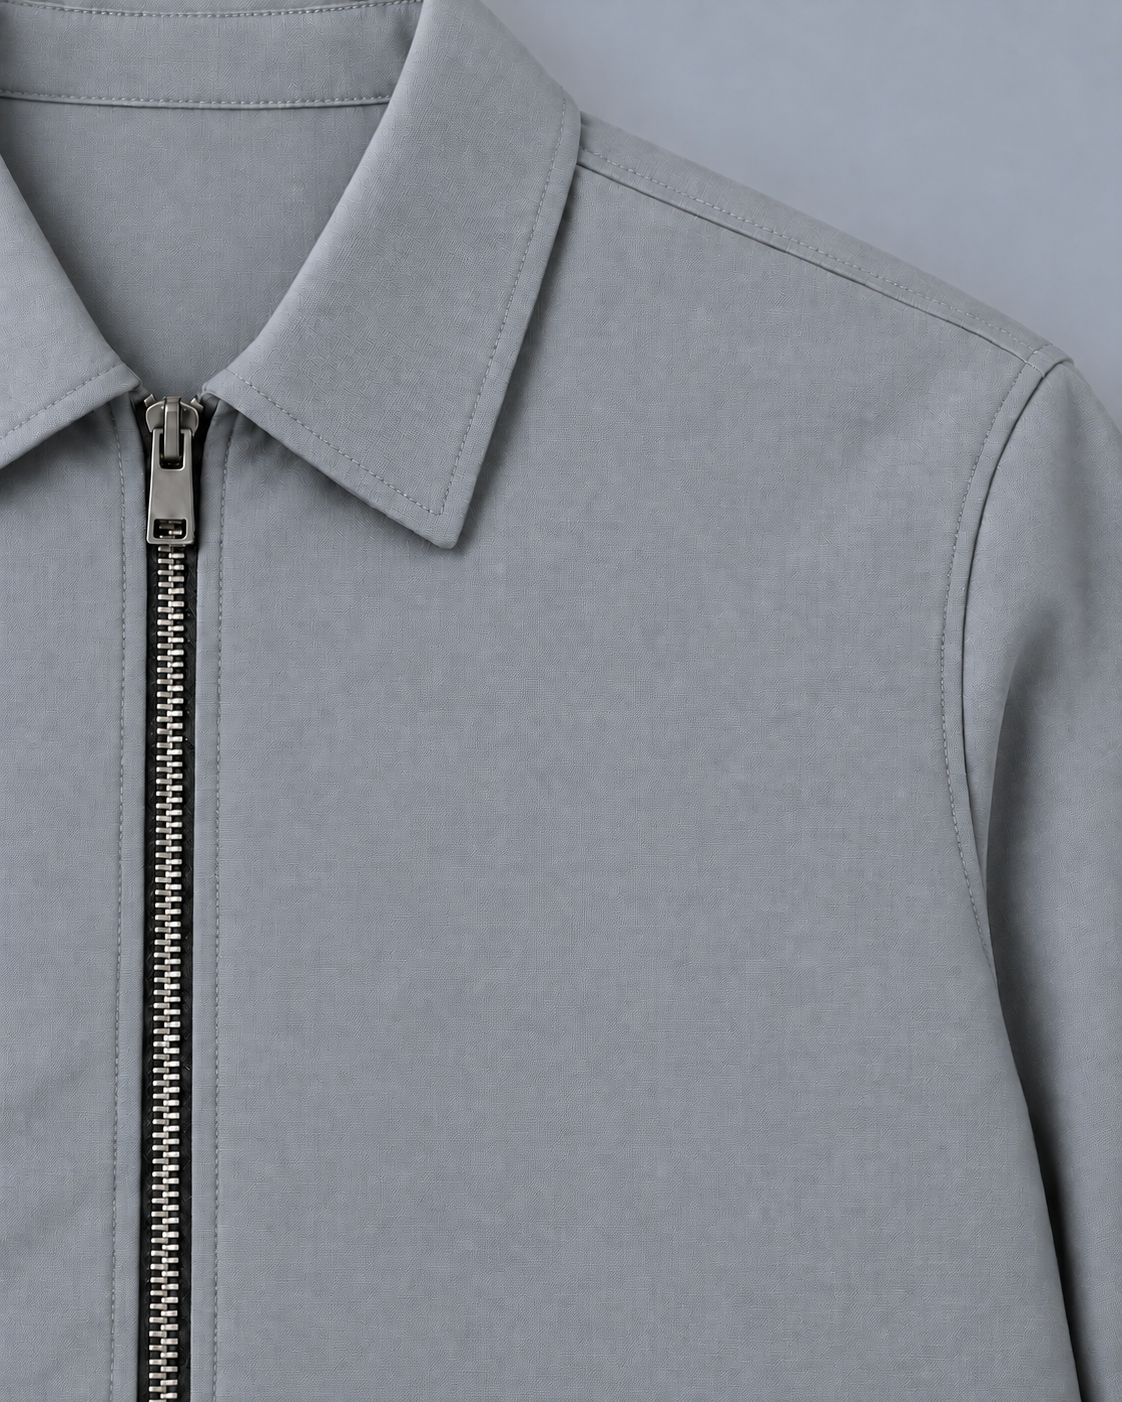
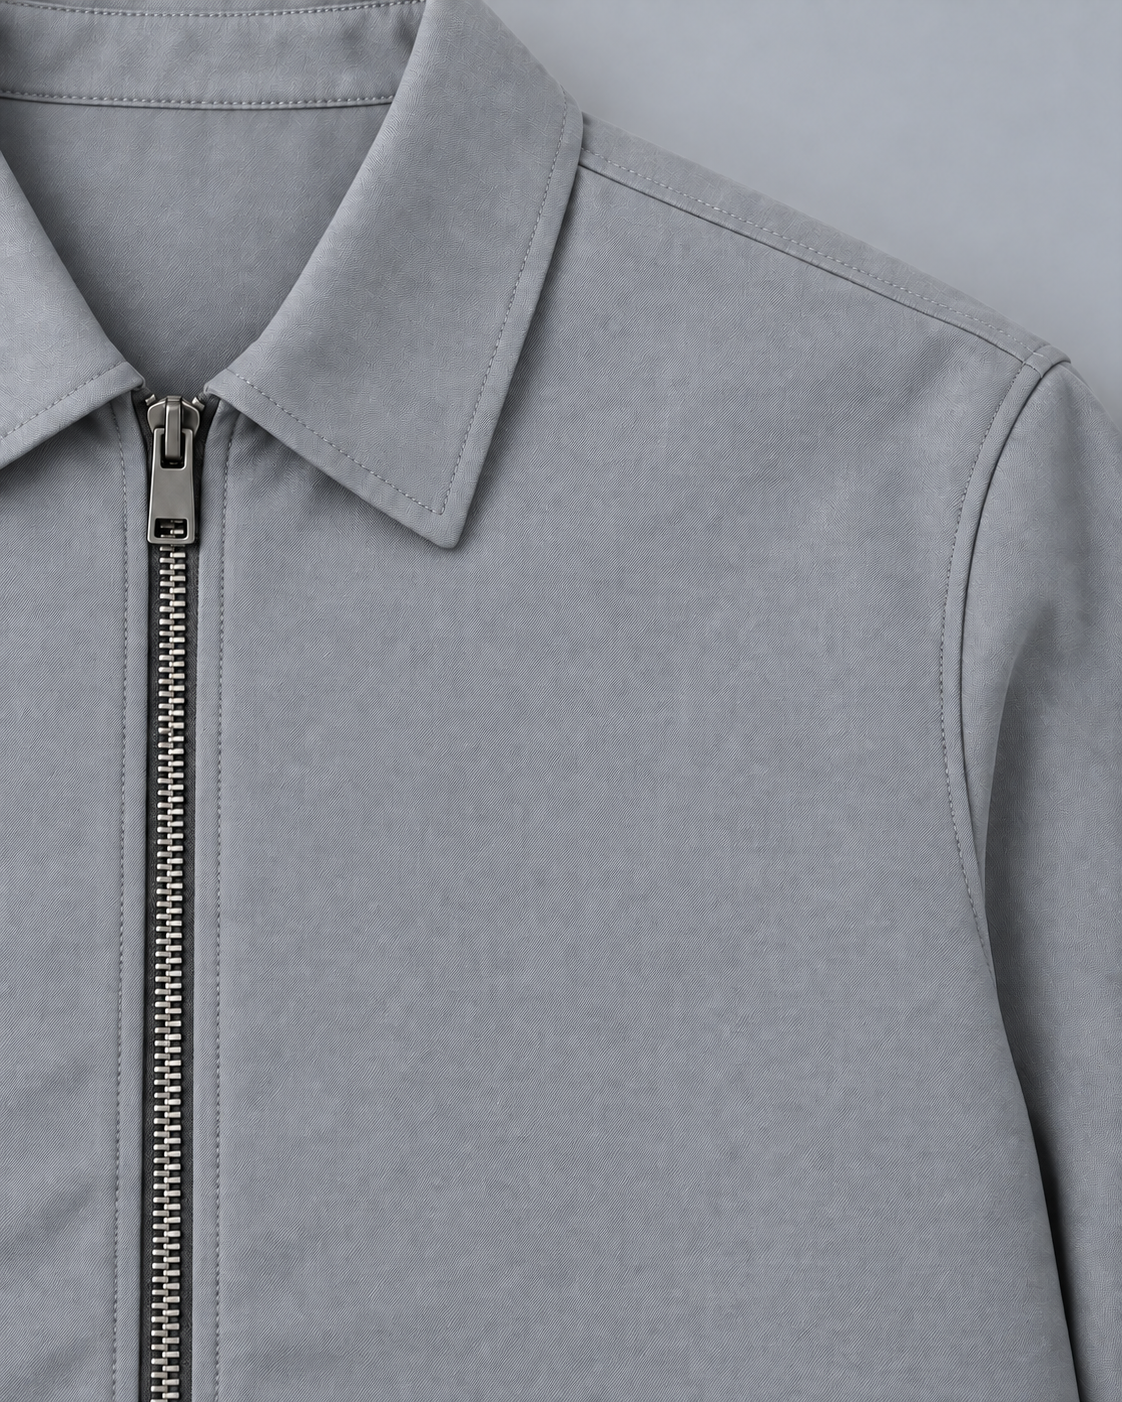
Couple tonal thread to knit relief and refine Soft Gray twill studies

diff --git a/scripts/site.css b/scripts/site.css
@@ -5,3 +5,5 @@
 @media(prefers-reduced-motion:reduce){html{scroll-behavior:auto}*,*::before,*::after{animation:none!important;transition:none!important}}
 
 .detail-zoom{border:0;border-bottom:1px solid #929da7;background:transparent;color:#fff;font-size:12px;padding:12px 0;margin-top:8px;cursor:pointer}dialog{width:calc(100vw - 32px);max-width:1200px;max-height:94svh;border:1px solid #66717a;padding:16px;color:#fff;background:#171a1d}dialog::backdrop{background:rgba(9,12,15,.85)}.zoom-header{display:flex;justify-content:space-between;align-items:center;gap:20px}.zoom-header h2{font-size:26px}.zoom-header button{background:transparent;color:#fff;border:1px solid #89939c;min-height:44px;padding:8px 14px;cursor:pointer;font-size:13px}.zoom-note{font-size:12px;color:#c3cbd2;max-width:none;margin:12px 0 16px}.zoom-viewport{overflow:auto;height:min(72svh,800px);overscroll-behavior:contain}.zoom-viewport .image-frame{width:1122px;max-width:none}.garment-mark[data-finish=thread]{opacity:1}
+
+.garment-mark[data-knit-contact=true]{mix-blend-mode:multiply}

diff --git a/docs/image-audit.md b/docs/image-audit.md
@@ -1,53 +1,11 @@
-# VALDOVIERI art direction audit
+# Complete image audit — product round
 
-Inspected live at https://www.valdovieri.com/ on 2026-10-09 using supported Chrome browser controls, screenshots, rendered DOM, and observed page assets. Also personally inspected every original JPG from the canonical read-only checkout at `valdovieri-original`, commit `7a71013a830a7c0511a30c163b25a4db843a459e`. No integration files edited and no inquiry/signup submitted.
+All six original production JPGs at commit 7a71013 were personally inspected by the art director. vv-hero and vv-detail are byte-identical beanie views. vv-overshirt shows a half-zip, not a full front opening. vv-cap has a conspicuous garment icon that does not establish the exact supplied geometry. vv-headwear includes camel; vv-texture does not establish merino. Their photographic origin and manufacturing status cannot be authenticated from the files. The detailed original audit is preserved in archive-round-one/image-audit.md. All originals remain unaltered in Git; the product-round build serves new concept assets.
 
-## Decision
+The rejected 15c7958 round retained the supplied half-zip and cap. Ray's subsequent brief authorized distinct new garment concepts, a beanie, and product/color pages. The current jacket is explicitly a new full-zip concept. It is not presented as a modified or verified original manufactured piece.
 
-Lead with a complete menswear look in cool-gray architecture. Keep the black half-zip collar construction visible in the original reference; treat the generated full look as editorial concept imagery. Preserve the original files and exact Version 2 V icon geometry. Use one model, one garment, one location and consistent soft daylight for the new shoot. Existing imagery does not independently verify manufactured garments, materials, ownership or photographic origin.
+The fifteen current photographs comprise six front/detail pairs and three distinct editorial scenes. The Graphite fronts define the three separate construction masters. Both independent reviewers and the art director personally inspected all base candidates at native resolution. Actual marks and page crops require the final frozen Preview rechecks. No model pose is presented as two separate editorial looks. The complete jacket outfit appears once; the cap editorial is Graphite, and the beanie editorial is Midnight Navy with matching caption, alt text, link and inquiry context.
 
-## Every original image
+Soft Gray jacket front twill v3 and detail twill v4 are independently selected improvements from approved image-generation edits. The chest/body now has fine parallel diagonal yarns. Residual collar, shoulder, neck and sleeve grain remains flagged. Soft Gray cap detail v3 retains a coarser grid and local curling compared with Graphite. These are visual quality limits, not access failures.
 
-| Filename / live URL | What is actually visible | Art direction / realism audit | Decision |
-|---|---|---|---|
-| [vv-hero.jpg](https://www.valdovieri.com/vv-hero.jpg), 1024² | Black rib-knit cuffed beanie with an unreadable dark rectangular patch, on rough stone; smoky charcoal ground | Strong tonal object study. Plausible knit ribs/crown shaping and contact shadow; no human anatomy. As hero it reads as a headwear label, offers no wearer/fit, and repeated square-cover crops cut the beanie off left on mobile. Dark veils suppress patch/detail further. | Replace hero placement with complete-look editorial. Preserve original as secondary headwear reference. |
-| [vv-overshirt.jpg](https://www.valdovieri.com/vv-overshirt.jpg), 1024²; used in chapter and product card | Black mannequin wearing matte dark top, high curved collar, shoulder seam and silver-tone single chest-length zip. Zip terminates above lower torso. | Collar/zip are legible; texture is very fine and uniform. Sleeves, cuffs, hem and lower construction disappear into black. This cannot demonstrate full opening, two-way closure, lining, fit or durability. Two uses repeat the same image rather than adding evidence. | Preserve unaltered as existing collection image. Use matching HALF-ZIP upper construction for concept shoot. Do not synthesize pockets, a full front zip, technical lining or multiple sliders. |
[1 lines of base64/hex data omitted]
-| [vv-headwear.jpg](https://www.valdovieri.com/vv-headwear.jpg), 1024² | Three ribbed cuffed beanies: two dark tonal variants and one camel, on weathered architectural ledge | Crown decrease lines, cuff folds, knit relief and base contact shadows read coherently. Fibers alone do not establish merino. Camel is already a strong accent; keep it out of the new hero. Current containment makes this small and surrounded by long empty black space on mobile. | Keep as a secondary collection still life, shown in a bounded 3:2/4:3 image block with garment crowns/cuffs intact. Avoid full-screen padding. |
-| [vv-cap.jpg](https://www.valdovieri.com/vv-cap.jpg), 1952×2208 | Black structured cap on pale stone, tonal stitched V, panel seams, eyelets, top button, parallel brim stitching | Most informative original: cloth relief and stitching are visible without black concealment. Emblem appears embroidered/appliquéd thread, not embossed leather. Its V is conspicuous at this scale and only resembles the SVG; perspective/threads do not prove exact production geometry. Original origin/stock/manufacture cannot be authenticated from this file. | Preserve supplied photo unaltered and use as smaller secondary inquiry image. Do not regenerate the cap or alter its emblem. Use exact SVG separately in small UI placements. |
-| [vv-texture.jpg](https://www.valdovieri.com/vv-texture.jpg), 1024² | Close knit/ribbed dark fabric with visible stray fibers and diagonal fold | Plausible shallow focus and fabric relief. Does not establish fiber composition. Current 18%-opacity treatment makes most of it nearly invisible. | Preserve. Optional small tactile inset; avoid muddy near-black full-width background. No “merino”/“Italian” proof inferred from image. |
-
-`original-image-manifest.json` records dimensions, hashes, metadata and live URLs. Unaltered evidence copies are in `originals/`. Five files have no EXIF. Cap EXIF has resolution/orientation entries but no inspected provenance sufficient to authenticate manufacturing or ownership. Absence of EXIF is not proof of generation.
-
-## Desktop and mobile evidence
-
-Desktop: `live-desktop-hero.jpg`, `live-desktop-outerwear.jpg`, `live-desktop-mark.jpg`, `live-desktop-headwear.jpg`, `live-desktop-pieces.jpg`, `live-desktop-access.jpg`.
-
-Mobile at 390×844: `live-mobile-390-hero.jpg`, `live-mobile-390-outerwear.jpg`, `live-mobile-390-mark.jpg`, `live-mobile-390-headwear.jpg`, `live-mobile-390-pieces.jpg`, `live-mobile-390-access.jpg`, `live-mobile-390-full.jpg`. Browser viewport override reset after inspection.
-
-`live-desktop-full-before-scroll.jpg` is deliberately identified as a pre-scroll capture: scroll-triggered opacity hides some lower text. Do not use that frame to claim permanent missing content. Individual sections were scrolled and inspected. Floating white assistant/Save UI in screenshots comes from the browser extension, not the canonical website.
-
-The site currently has controlled restraint, but too much equal-height black staging: three chapters feel repetitive and accessory-led. Desktop wordmark is elegant but overtracked; there is little hierarchy between garment and accessories. Mobile background cover cuts the hero beanie off left. The high neckline remains legible in the mobile outerwear crop, but both shoulders are clipped and no garment length appears. Headwear containment creates unused vertical space. Product cards retain a clear cap image but obscure the top's lower form. Inquiry/footer text and form placeholder are extremely small and low contrast.
-
-## Type, rhythm, palette and crop recommendations
-
-- Retain a refined serif such as the existing Cormorant Garamond, with weight 400 for headings and readable body; weight 300 only for large brand display. Keep VALDOVIERI spelling intact. Reduce normal headings' letter spacing to near zero and display wordmark tracking from `.51em` toward `.20–.28em` on desktop, `.14–.22em` on small screens after visual fit checks.
-- Current product material copy is **8.96px**, footer contact **8.64px**, request label **9.6px** at 390px wide. Raise metadata/navigation/contact to 12–13px and body to 16–18px. Restrict spaced mono uppercase to short labels; use plain sentence case for descriptive copy. Preserve serif distinction with a quiet readable sans for UI if desired.
-- Use black `#101113`, charcoal `#202226`, slate `#757B82`, soft gray `#D8DBDE`, white `#F4F5F6`, and small navy `#202936` accents. Replace current brown-gray muted text; no cream field, gold, ornamental rules or gilded imagery. The existing camel accessory can remain secondary.
-- Hero landscape 16:9/3:2 and mobile portrait need separate considered framing, ideally same scene. Keep complete head-to-shoes silhouette, at least 5–8% breathing space around head/feet, shoulder seam/hem visible, and text outside key construction. Do not rely on heavy vignetting for readability. Prefer adjacent or lower-band text if no clean image zone.
-- Transition from hero into a readable introduction and one complementary worn-outerwear frame, then preserved collection images, then clear inquiry. On mobile use 24px side gutters, bounded image blocks, and roughly 56–80px between editorial sections. Avoid three repeated 88svh image chapters.
-- Product imagery should retain crowns, collar and zipper endpoints; cap brim must remain intact. For the original dark top, do not overcrop or digitally reconstruct unseen hem. It can remain a smaller supplied reference while the full-look concept is explicitly distinguished in provenance.
-
-## Claims requiring evidence or removal
-
-“Italian melton wool,” “ribbed merino,” “brushed black wool,” “wool twill,” “satin lining,” and implied longevity in “cut for the long term” are not verified by photos or repository records. “Two-way metal zip” conflicts with the visible single chest-length closure. “Embossed leather V” conflicts with apparent stitching. Avoid introducing country of manufacture, mill, handwork, limited availability, pricing, delivery or production-status claims. “Private access” should only describe a functioning request experience, not imply confirmed stock/exclusivity. “Found only at close range” is poorly supported by the current duplicate beanie frame and large cap emblem.
-
-Safe copy can name visible form without material assertion: “A study in dark tones,” “Half-zip silhouette,” “Ribbed headwear,” “Tonal cap,” “Collection imagery,” and “Inquire about the collection.” Generated assets must have explicit records such as `ai-generated-editorial-concept`, preserve exact prompts/references, and never be labeled verified product photography or manufactured samples.
-
-## Cohesive replacement shoot brief
-
-Priority A: complete menswear look. Adult male in the reference's black matte high-neck HALF-ZIP top, charcoal straight trousers and simple black shoes. Natural upright posture with gentle shoulder/hip support against a cool-gray architectural pier or low ledge, credible feet on ground, calm gaze slightly off camera, hands anatomically clear and relaxed. No theatrical lean, contorted wrists or fashion grimace. No cap in hero; any later headwear is low profile and black. Soft overcast directional daylight with gentle fill; moderate contrast revealing garment folds, collar, zip endpoint, cuff and hem. Same model/wardrobe/location for portrait companion. 35–50mm equivalent optics, realistic textile gravity, cool neutral grade, quiet architecture with restrained negative space. Avoid borrowed campaign signatures.
-
-Priority B: complementary 4:5/3:2 worn garment frame from same shoot. Waist-to-head or three-quarter framing with both shoulder joins, coherent collar curves, single zipper/teeth/placket and relaxed sleeve folds visible. Human skin pores, natural fingers, plausible ear/eye details. Do not change garment hardware or add leather badges/pockets.
-
-Existing headwear/cap/texture images remain useful secondary collection references. New supporting imagery should not be unrelated mannequin/products, cream still-life objects, generic luxury props, or ornamental architecture. Check at full resolution for skin/hands, fabric weave, stitch continuity, closures, gravity, contact shadows, perspective and proportional garment fit. Reject defects rather than darkening them. Keep generated concept provenance explicit and supplied originals immutable.
+The supplied native Version 2 icon path is unchanged. Photographic thread fields are clipped within it at proposed visible widths of 10mm, 16mm and 12mm for jacket, cap and beanie. All colors and dimensions are proposals. AI imagery is identified in provenance and on the website. Physical thread appearance and knit contact must be checked in actual native proofs; they are not inferred from code or captions.

diff --git a/docs/provenance.md b/docs/provenance.md
@@ -8,7 +8,7 @@ The exact supplied Version 2 icon path is used unchanged in all views. Three gen
 
 Colors are proposed: jacket/cap Graphite and Soft Gray; beanie Graphite and Midnight Navy. They are not owner-approved production colors. Swatches navigate to separate matching front/detail images. No full-photo color filters or fake availability are used.
 
-Open candidate-image findings: Soft Gray jacket curling/ring grain remains visible in some cloth regions; Soft Gray cap weave scale/local curling remains inconsistent with Graphite. Cap Graphite native thread detail provisionally passed personal material review. Other thread appearances and final site crops require independent rendered review. Do not interpret a working Preview as owner approval.
+Open candidate-image findings: Selected Soft Gray jacket front twill v3/detail twill v4 improve chest/body directional yarns, but curling/ring grain remains in collar, neck, shoulder and sleeve regions; Soft Gray cap weave scale/local curling remains inconsistent with Graphite. Cap Graphite native thread detail provisionally passed personal material review. All three specialists personally passed both Beanie v11 native detail proofs as generated tonal-thread concepts: fine photographic strands remain distinct while actual knit crest/valley shading continues. This is a visual concept pass, not stitch or manufacture certification. Jacket native placement/contact is provisional at its small 41px glyph. Final paired fronts, editorial marks, mobile crops and site behavior require deployed review. Do not interpret a working Preview as owner approval.
 
 Unsupported claims are removed or expressly unconfirmed: wool/cashmere/fiber percentages, Italian origin, manufacturing location or technique, handmade construction, fit measurements, inventory, pricing, delivery and availability. The copy describes visible proposed shapes only. Footer and product pages identify concept imagery and unconfirmed facts.
 
